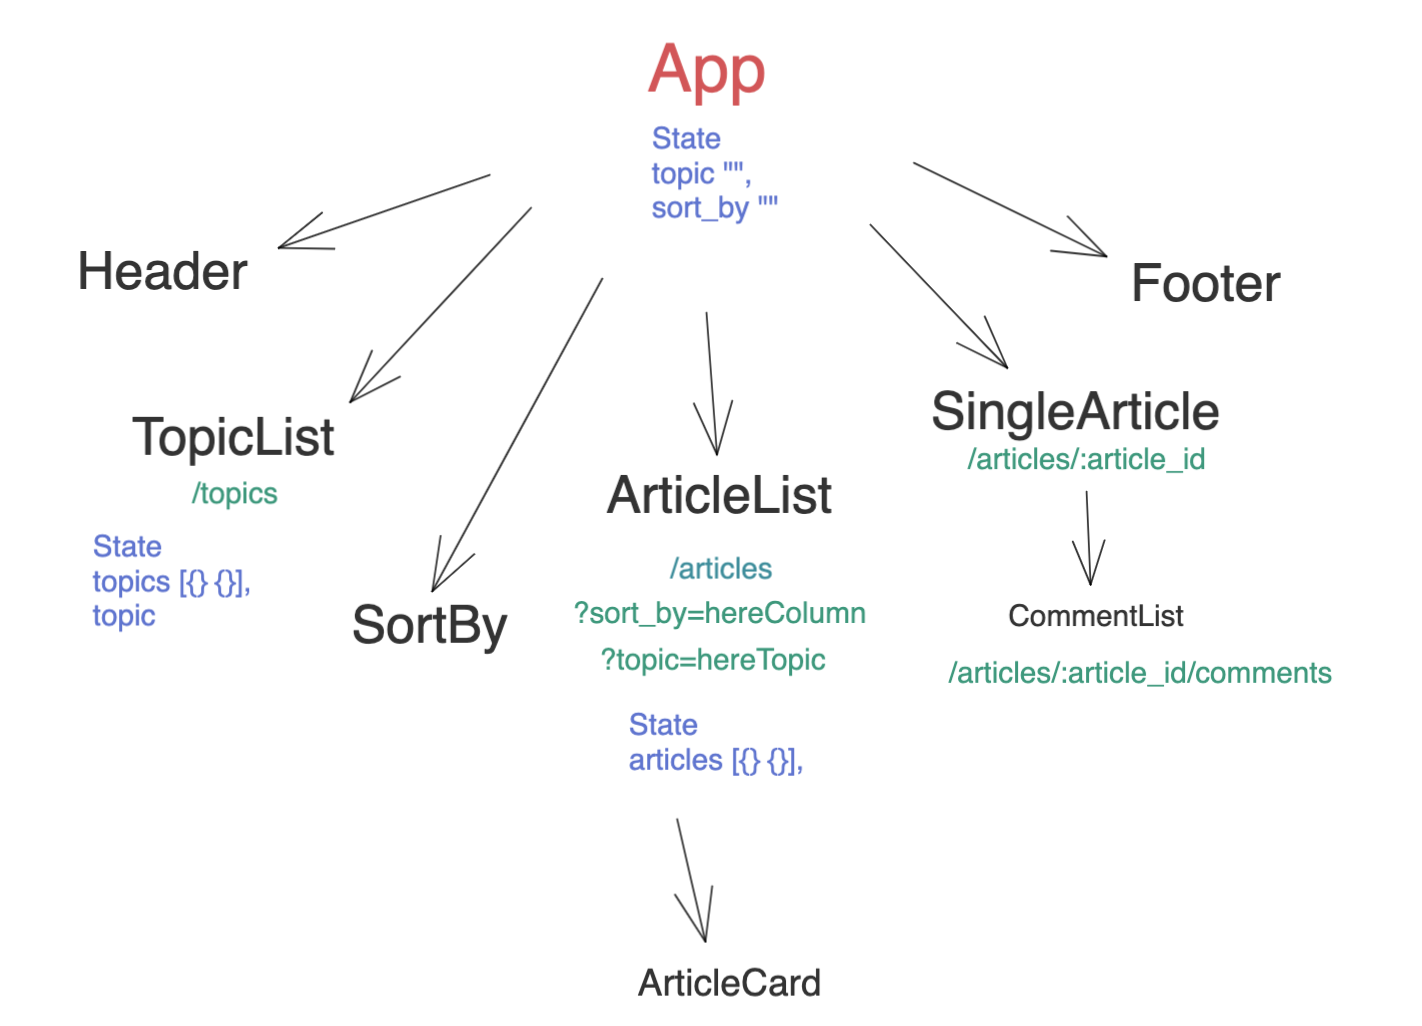
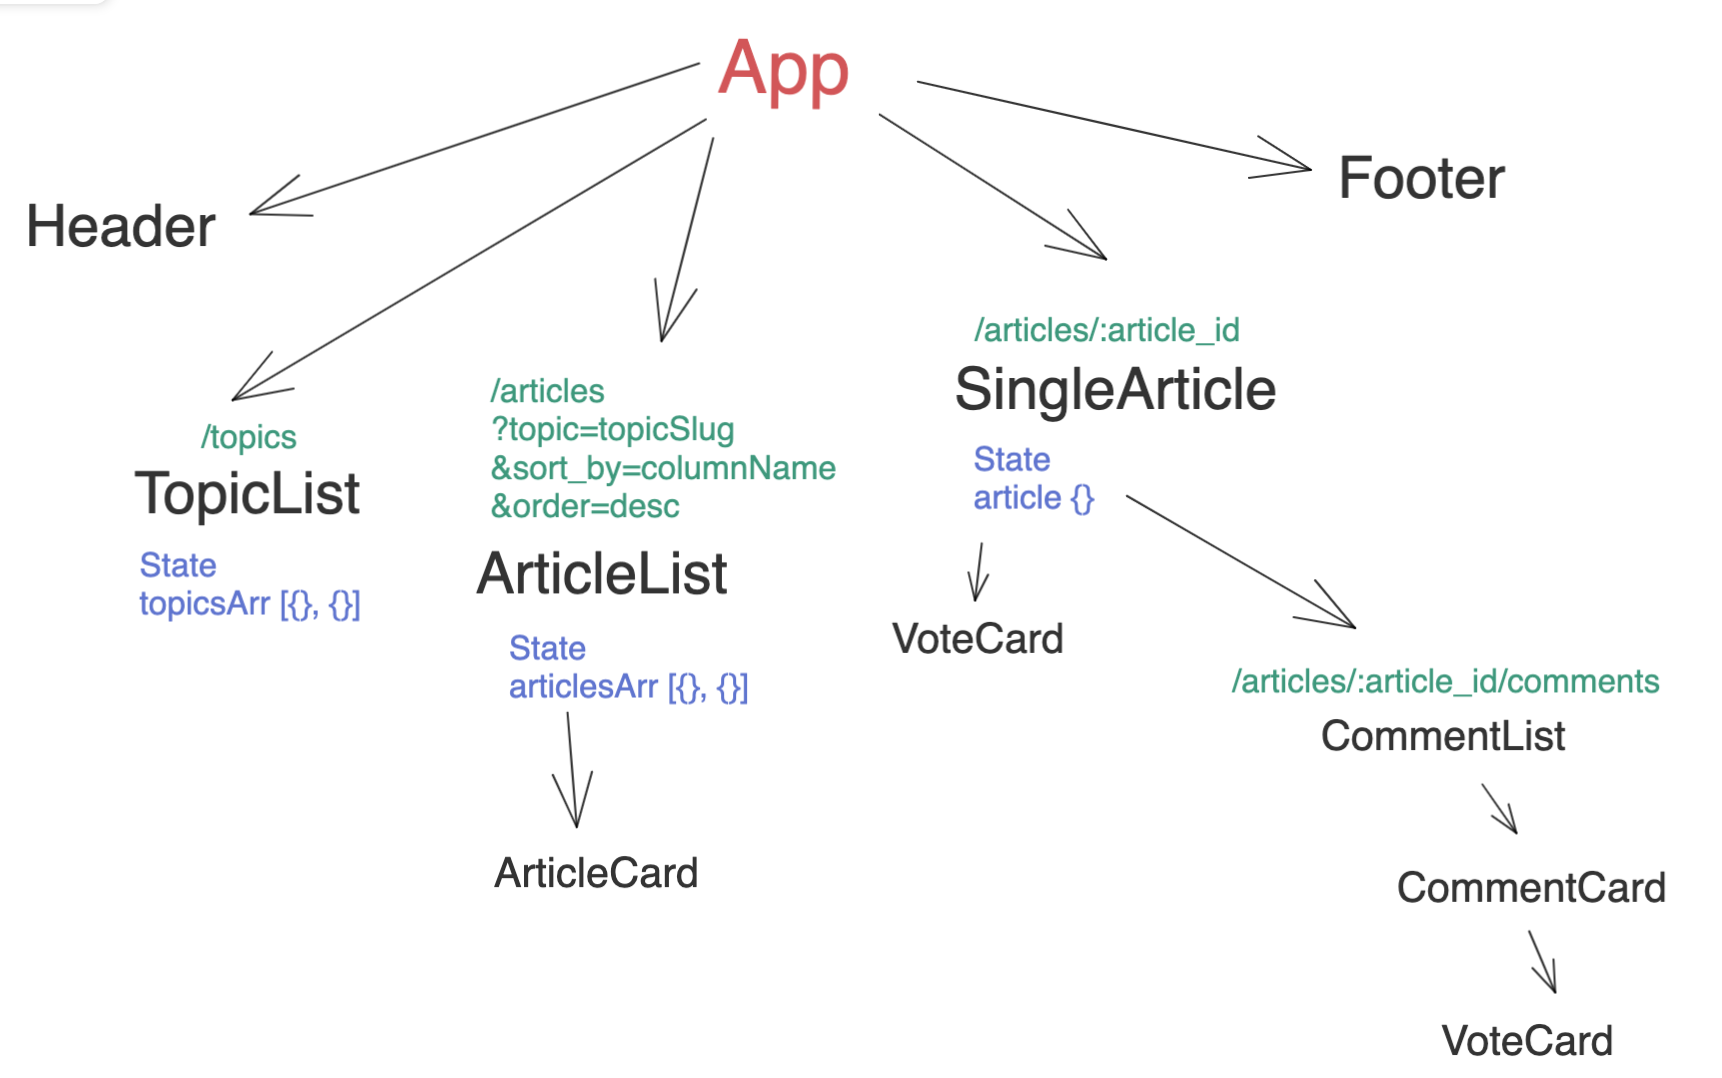
ticket#6 view and individual article

diff --git a/src/components/SingleArticle.jsx b/src/components/SingleArticle.jsx
@@ -1,0 +1,53 @@
+import {useEffect, useState} from "react";
+import {useParams, Link} from "react-router-dom";
+import {getArticleById} from "../utils/api";
+import VoteCard from "./VoteCard";
+
+export default function SingleArticle() {
+  const {article_id} = useParams();
+  const [isLoading, setIsLoading] = useState(false);
+  const [article, setArticle] = useState([]);
+
+  useEffect(() => {
+    setIsLoading(true);
+    getArticleById(article_id).then(({article}) => {
+      setArticle(article);
+      setIsLoading(false);
+    });
+  }, [article_id]);
+
+  if (isLoading) return <p>Article is loading...</p>;
+  let dateStr = "";
+  if (article.created_at) {
+    const date = new Date(Date.parse(article.created_at));
+    const options = {
+      weekday: "long",
+      year: "numeric",
+      month: "long",
+      day: "numeric",
+    };
+    dateStr = "On " + date.toLocaleDateString(undefined, options);
+  }
+
+  return (
+    <section>
+      <article>
+        <p>Posted by {article.author}</p>
+        <p>{dateStr}</p>
+        <h2>{article.title}</h2>
+        <VoteCard votes={article.votes} article_id={article_id} />
+        <p>{article.comment_count} comments</p>
+        <p>{article.body}</p>
+      </article>
+      <form>
+        <label htmlFor="">Comment</label>
+        <input id="input_comment" placeholder="Your comment is here"></input>
+        <button>Cancel</button>
+        <button>Comment</button>
+      </form>
+      <Link to="">
+        <p>Read comments</p>
+      </Link>
+    </section>
+  );
+}

diff --git a/src/App.js b/src/App.js
@@ -4,7 +4,8 @@ import {BrowserRouter, Routes, Route} from "react-router-dom";
 
 import Header from "./components/Header";
 import Footer from "./components/Footer";
-import Main from "./components/Main";
+import SingleArticle from "./components/SingleArticle";
+import ArticleList from "./components/ArticleList";
 
 function App() {
   return (
@@ -13,9 +14,10 @@ function App() {
         <Header />
         <main>
           <Routes>
-            <Route path="/" element={<Main />} />
-            <Route path="/articles" element={<Main />} />
-            <Route path="/topics/:slug" element={<Main />} />
+            <Route path="/" element={<ArticleList />} />
+            <Route path="/articles" element={<ArticleList />} />
+            <Route path="/articles/:article_id" element={<SingleArticle />} />
+            <Route path="/topics/:slug" element={<ArticleList />} />
           </Routes>
         </main>
         <Footer />

diff --git a/src/utils/api.js b/src/utils/api.js
@@ -3,6 +3,9 @@ const ncNewsApi = axios.create({
   baseURL: "https://student-coders-news.herokuapp.com/api",
 });
 
+export const getTopicsArr = () => {
+  return ncNewsApi.get("/topics").then((res) => res.data);
+};
 export const getArticlesArr = (slug) => {
   return ncNewsApi
     .get("/articles", {
@@ -12,7 +15,6 @@ export const getArticlesArr = (slug) => {
     })
     .then((res) => res.data);
 };
-
-export const getTopicsArr = () => {
-  return ncNewsApi.get("/topics").then((res) => res.data);
+export const getArticleById = (article_id) => {
+  return ncNewsApi.get(`/articles/${article_id}`).then((res) => res.data);
 };

diff --git a/src/components/ArticleCard.jsx b/src/components/ArticleCard.jsx
@@ -6,7 +6,7 @@ export const ArticleCard = ({article}) => {
     football:
       "https://pngimg.com/uploads/football_player/small/football_player_PNG129.png",
   };
-  const url = "/api/articles/" + article.article_id;
+  const url = "/articles/" + article.article_id;
   return (
     <Link to={url}>
       <img src={topicIcons[article.topic]} width="50px"></img>

diff --git a/src/components/VoteCard.jsx b/src/components/VoteCard.jsx
@@ -1,0 +1,9 @@
+export default function VoteCard({votes, article_id}) {
+  return (
+    <p>
+      <button>Up</button>
+      {votes} votes
+      <button>Down</button>
+    </p>
+  );
+}

diff --git a/planning-app/plan.md b/planning-app/plan.md
@@ -6,8 +6,8 @@ Sprints are on
 ## Protorype
 
 Interactive prototype is on
-[marvelapp.com](https://marvelapp.com/prototype/b69e7dj/screen/88864350)
+[marvelapp.com](https://marvelapp.com/prototype/b69e7dj/screen/88847864)
 
 ## Component Tree
 
-![CT](/planning-app/images/component-tree.png)
+It is new CT: ![CT](/planning-app/images/component-tree.png)
